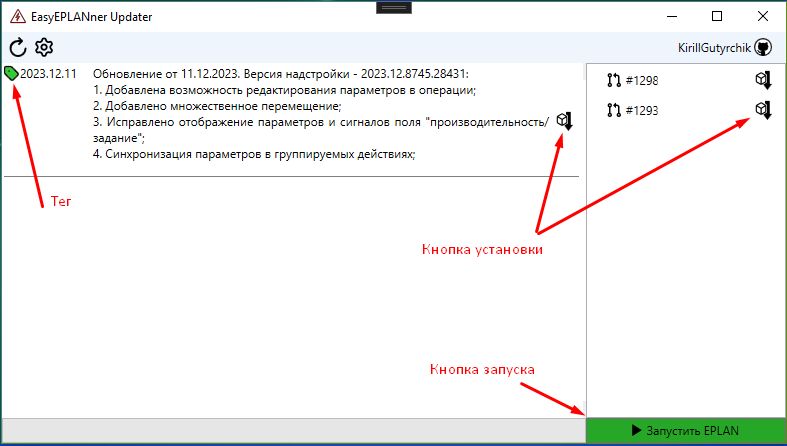
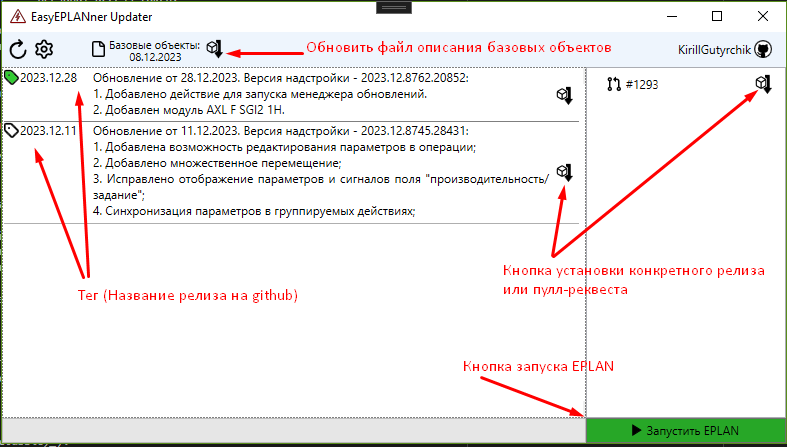
Independent update sys_base_objects_description.lua

diff --git a/EplannerUpdater/MainWindow/MainWindow.xaml b/EplannerUpdater/MainWindow/MainWindow.xaml
@@ -1,4 +1,4 @@
-<Window x:Class="Updater.MainWindow"
+<Window x:Class="Updater.MainWindow"
         xmlns="http://schemas.microsoft.com/winfx/2006/xaml/presentation"
         xmlns:x="http://schemas.microsoft.com/winfx/2006/xaml"
         xmlns:d="http://schemas.microsoft.com/expression/blend/2008"
@@ -33,6 +33,7 @@
         <Geometry x:Key="Artifact">M 11.1896 0.8143 L 15.845 0.8143 L 15.845 13.2289 L 18.1728 13.2289 L 13.5173 19.4362 L 9.5 13.9 L 10.4 13.2289 H 11.1896 V 12.7 C 11.2 12.7 13.2 12.6 13.2 10.6 L 13.2 6 C 13.2 3.7 11.2 3.5 11.1896 3.5518 Z M 7.7755 2.3661 l 4.0735 2.3627 c 0.419 0.2436 0.6766 0.6906 0.6766 1.1747 v 4.7315 a 1.3578 1.3578 90 0 1 -0.6766 1.1747 l -4.0735 2.3627 a 1.3578 1.3578 90 0 1 -1.3625 0 l -4.0735 -2.3627 a 1.3578 1.3578 90 0 1 -0.6766 -1.1747 v -4.7315 c 0 -0.4842 0.2576 -0.9319 0.6766 -1.1747 l 4.0735 -2.3627 a 1.3578 1.3578 90 0 1 1.3625 0 z m -0.7782 1.0071 l -3.5925 2.0833 l 3.6895 2.14 l 3.6895 -2.14 l -3.5925 -2.0833 a 0.1924 0.1924 90 0 0 -0.194 0 z m -4.1705 3.0936 v 4.1682 c 0 0.0698 0.0365 0.1327 0.097 0.1676 l 3.5886 2.0818 v -4.2799 z m 4.8495 6.4176 l 3.5886 -2.0818 a 0.194 0.194 90 0 0 0.097 -0.1676 v -4.1682 l -3.6856 2.1376 z l 0 -1.7768 z</Geometry>
         <Geometry x:Key="PullRequest">M1.5 3.25a2.25 2.25 0 1 1 3 2.122v5.256a2.251 2.251 0 1 1-1.5 0V5.372A2.25 2.25 0 0 1 1.5 3.25Zm5.677-.177L9.573.677A.25.25 0 0 1 10 .854V2.5h1A2.5 2.5 0 0 1 13.5 5v5.628a2.251 2.251 0 1 1-1.5 0V5a1 1 0 0 0-1-1h-1v1.646a.25.25 0 0 1-.427.177L7.177 3.427a.25.25 0 0 1 0-.354ZM3.75 2.5a.75.75 0 1 0 0 1.5.75.75 0 0 0 0-1.5Zm0 9.5a.75.75 0 1 0 0 1.5.75.75 0 0 0 0-1.5Zm8.25.75a.75.75 0 1 0 1.5 0 .75.75 0 0 0-1.5 0Z</Geometry>
         <Geometry x:Key="Issue">M8 0a8 8 0 1 1 0 16A8 8 0 0 1 8 0ZM1.5 8a6.5 6.5 0 1 0 13 0 6.5 6.5 0 0 0-13 0Z M8 9.5a1.5 1.5 0 1 0 0-3 1.5 1.5 0 0 0 0 3Z</Geometry>
+        <Geometry x:Key="BaseObjectDescription">M2 1.75C2 .784 2.784 0 3.75 0h6.586c.464 0 .909.184 1.237.513l2.914 2.914c.329.328.513.773.513 1.237v9.586A1.75 1.75 0 0 1 13.25 16h-9.5A1.75 1.75 0 0 1 2 14.25Zm1.75-.25a.25.25 0 0 0-.25.25v12.5c0 .138.112.25.25.25h9.5a.25.25 0 0 0 .25-.25V6h-2.75A1.75 1.75 0 0 1 9 4.25V1.5Zm6.75.062V4.25c0 .138.112.25.25.25h2.688l-.011-.013-2.914-2.914-.013-.011Z</Geometry>
         <Style x:Key="ViewerScrollBar" TargetType="{x:Type ScrollBar}" />
         <Style x:Key="ScrollViewerStyleScrollBar" TargetType="{x:Type ScrollViewer}">
             <Setter Property="Template">
@@ -93,12 +94,32 @@
                 <ColumnDefinition/>
                 <ColumnDefinition Width="Auto"/>
             </Grid.ColumnDefinitions>
+            <Grid.RowDefinitions>
+                <RowDefinition/>
+                <RowDefinition/>
+            </Grid.RowDefinitions>
             <ToolBar Grid.Column="0" ToolBarTray.IsLocked="True" Loaded="ToolBarWithoutOverflow_Loaded">
-                <Button Name="RefreshButton" Click="RefreshButton_Click">
+                <Button Name="RefreshButton" Click="RefreshButton_Click" ToolTip="Обновить">
                     <Path Width="20" VerticalAlignment="Center" HorizontalAlignment="Center" Height="20" Fill="Black" Data="{StaticResource Refresh}"/>
                 </Button>
-                <Button Background="Transparent" BorderBrush="Transparent" Name="SettingsButton" Click="SettingsButton_Click">
+                <Button Background="Transparent" BorderBrush="Transparent" Name="SettingsButton" Click="SettingsButton_Click" ToolTip="Настройки">
                     <Path Width="20" Height="20" Fill="Black" HorizontalAlignment="Center" VerticalAlignment="Center" Data="{StaticResource Settings}"/>
+                </Button>
+                <Button ToolTip="Обновить файл описания базовых объектов" Background="Transparent" BorderBrush="Transparent" 
+                        Name="UpdateBTODescriptionButton" Click="UpdateBTODescriptionButton_Click" Margin="30,0,0,0"
+                        Visibility="{Binding Model.User, RelativeSource={RelativeSource FindAncestor, AncestorType={x:Type local:MainWindow}}, Converter={StaticResource NullableToVisibilityConverter}}">
+                    <WrapPanel>
+                        <Path Width="16" Height="16" Fill="Black" HorizontalAlignment="Center" VerticalAlignment="Center" Data="{StaticResource BaseObjectDescription}"/>
+                        <Grid>
+                            <Grid.RowDefinitions>
+                                <RowDefinition/>
+                                <RowDefinition/>
+                            </Grid.RowDefinitions>
+                            <TextBlock Height="12" Grid.Row="0" VerticalAlignment="Top" Text="Базовые объекты:" Margin="3,0,5,0" FontSize="11"/>
+                            <TextBlock Height="12" Grid.Row="1" TextAlignment="Center" VerticalAlignment="Bottom" Text="{Binding Source={x:Static local:Settings.Default}, Path=BTODescriptionUsedVersion, Mode=TwoWay}" FontSize="11"/>
+                        </Grid>
+                        <Path Width="20" Height="20" Fill="Black" HorizontalAlignment="Center" VerticalAlignment="Center" Data="{StaticResource Artifact}"/>
+                    </WrapPanel>
                 </Button>
             </ToolBar>
             <ToolBar Grid.Column="1" Name="UserToolBar" ToolBarTray.IsLocked="True" Loaded="ToolBarWithoutOverflow_Loaded" >

diff --git a/EplannerUpdater/MainWindow/MainWindowModel.cs b/EplannerUpdater/MainWindow/MainWindowModel.cs
@@ -1,4 +1,5 @@
 using Octokit;
+using Octokit.Internal;
 using System;
 using System.Collections.Generic;
 using System.ComponentModel;
@@ -22,7 +23,9 @@ using System.Windows;
 using System.Windows.Documents;
 using System.Windows.Input;
 using System.Windows.Threading;
+using System.Windows.Shapes;
 using static System.Windows.Forms.VisualStyles.VisualStyleElement;
+using static System.Windows.Forms.VisualStyles.VisualStyleElement.TreeView;
 
 namespace Updater;
 
@@ -138,8 +141,8 @@ public partial class MainWindowModel : IMainWindowModel, INotifyPropertyChanged
     #pragma warning disable CS8601 // Возможно, назначение-ссылка, допускающее значение NULL.
     #pragma warning disable CS8602 // Разыменование вероятной пустой ссылки.
     /// <summary> Путь к папке в которой находится приложение (Eplanner 2.9) </summary>
-    private static readonly string LOCATION = Path.GetDirectoryName(
-        Path.GetDirectoryName(System.Reflection.Assembly.GetEntryAssembly().Location));
+    private static readonly string LOCATION = System.IO.Path.GetDirectoryName(
+        System.IO.Path.GetDirectoryName(System.Reflection.Assembly.GetEntryAssembly().Location));
     #pragma warning restore CS8601
     #pragma warning restore CS8602
 
@@ -472,6 +475,7 @@ public partial class MainWindowModel : IMainWindowModel, INotifyPropertyChanged
 
         Settings.Default.UsePullRequestVersion = false;
         Settings.Default.ReleaseTag = releaseItem.Release.TagName;
+        Settings.Default.BTODescriptionUsedVersion = $"R: {releaseItem.Release.PublishedAt.GetValueOrDefault().Date.ToShortDateString()}";
         Settings.Default.Save();
     }
 
@@ -493,6 +497,7 @@ public partial class MainWindowModel : IMainWindowModel, INotifyPropertyChanged
 
         Settings.Default.UsePullRequestVersion = true;
         Settings.Default.PullRequestNumber = pullRequestItem.PullRequest.Number;
+        Settings.Default.BTODescriptionUsedVersion = $"#{pullRequestItem.PullRequest.Number}";
         Settings.Default.Save();
     }
 
@@ -543,6 +548,49 @@ public partial class MainWindowModel : IMainWindowModel, INotifyPropertyChanged
                 MainWindow.RefreshButton_Click(this, new RoutedEventArgs());
             });
         });
+    }
+
+    public async void UpdateBTODescription()
+    {
+        RepositoryContent? description;
+        DateTimeOffset? lastCommitForFileDate;
+
+        try
+        {
+            description = (await GitHub.Repository.Content.GetAllContents(Settings.Default.GitOwner,
+                Settings.Default.BTODescriptionRepo, Settings.Default.BTODescriptionPath))
+            .FirstOrDefault();
+
+            var request = new CommitRequest 
+            { 
+                Path = Settings.Default.BTODescriptionPath,
+                Sha = "master" 
+            };
+            lastCommitForFileDate = 
+                (await GitHub.Repository.Commit
+                .GetAll(Settings.Default.GitOwner, Settings.Default.BTODescriptionRepo, request))
+                .FirstOrDefault()?.Commit.Author.Date;
+        }
+        catch
+        {
+            return;
+        }
+
+        #pragma warning disable SYSLIB0014 // Тип или член устарел
+        using (var webClient = new WebClient())
+        {
+            webClient.DownloadFileCompleted += async (sender, e) => { await Task.Delay(500); MainWindow.Progress = 0; };
+            webClient.DownloadProgressChanged += (sender, e) => MainWindow.Progress = e.ProgressPercentage;
+
+            webClient.DownloadFileAsync(new Uri(description?.DownloadUrl ?? ""), @$"{LOCATION}\{Settings.Default.BTODescriptionFilePath}");
+        }
+        #pragma warning restore SYSLIB0014
+
+        if (lastCommitForFileDate is not null)
+        {
+            Settings.Default.BTODescriptionUsedVersion = lastCommitForFileDate.GetValueOrDefault().Date.ToShortDateString();
+            Settings.Default.Save();
+        }
     }
 
     /// <summary>

diff --git a/EplannerUpdater/Settings.Designer.cs b/EplannerUpdater/Settings.Designer.cs
@@ -165,5 +165,44 @@ namespace Updater {
                 return ((string)(this["UpdaterGitRepo"]));
             }
         }
+        
+        [global::System.Configuration.UserScopedSettingAttribute()]
+        [global::System.Diagnostics.DebuggerNonUserCodeAttribute()]
+        [global::System.Configuration.DefaultSettingValueAttribute("")]
+        public string BTODescriptionUsedVersion {
+            get {
+                return ((string)(this["BTODescriptionUsedVersion"]));
+            }
+            set {
+                this["BTODescriptionUsedVersion"] = value;
+            }
+        }
+        
+        [global::System.Configuration.ApplicationScopedSettingAttribute()]
+        [global::System.Diagnostics.DebuggerNonUserCodeAttribute()]
+        [global::System.Configuration.DefaultSettingValueAttribute("ptusa-Lua-dairy-system")]
+        public string BTODescriptionRepo {
+            get {
+                return ((string)(this["BTODescriptionRepo"]));
+            }
+        }
+        
+        [global::System.Configuration.ApplicationScopedSettingAttribute()]
+        [global::System.Diagnostics.DebuggerNonUserCodeAttribute()]
+        [global::System.Configuration.DefaultSettingValueAttribute("EasyEplannerObjectsDescription/sys_base_objects_description.lua")]
+        public string BTODescriptionPath {
+            get {
+                return ((string)(this["BTODescriptionPath"]));
+            }
+        }
+        
+        [global::System.Configuration.ApplicationScopedSettingAttribute()]
+        [global::System.Diagnostics.DebuggerNonUserCodeAttribute()]
+        [global::System.Configuration.DefaultSettingValueAttribute("Lua\\BaseObjectsDescriptionFiles\\sys_base_objects_description.lua")]
+        public string BTODescriptionFilePath {
+            get {
+                return ((string)(this["BTODescriptionFilePath"]));
+            }
+        }
     }
 }

diff --git a/EplannerUpdater/MainWindow/MainWindow.xaml.cs b/EplannerUpdater/MainWindow/MainWindow.xaml.cs
@@ -1,4 +1,4 @@
-using Octokit;
+using Octokit;
 using System;
 using System.ComponentModel;
 using System.Diagnostics;
@@ -226,4 +226,7 @@ public partial class MainWindow : Window
             });
         }
     }
+
+    private void UpdateBTODescriptionButton_Click(object sender, RoutedEventArgs e)
+        => Model.UpdateBTODescription();
 }
